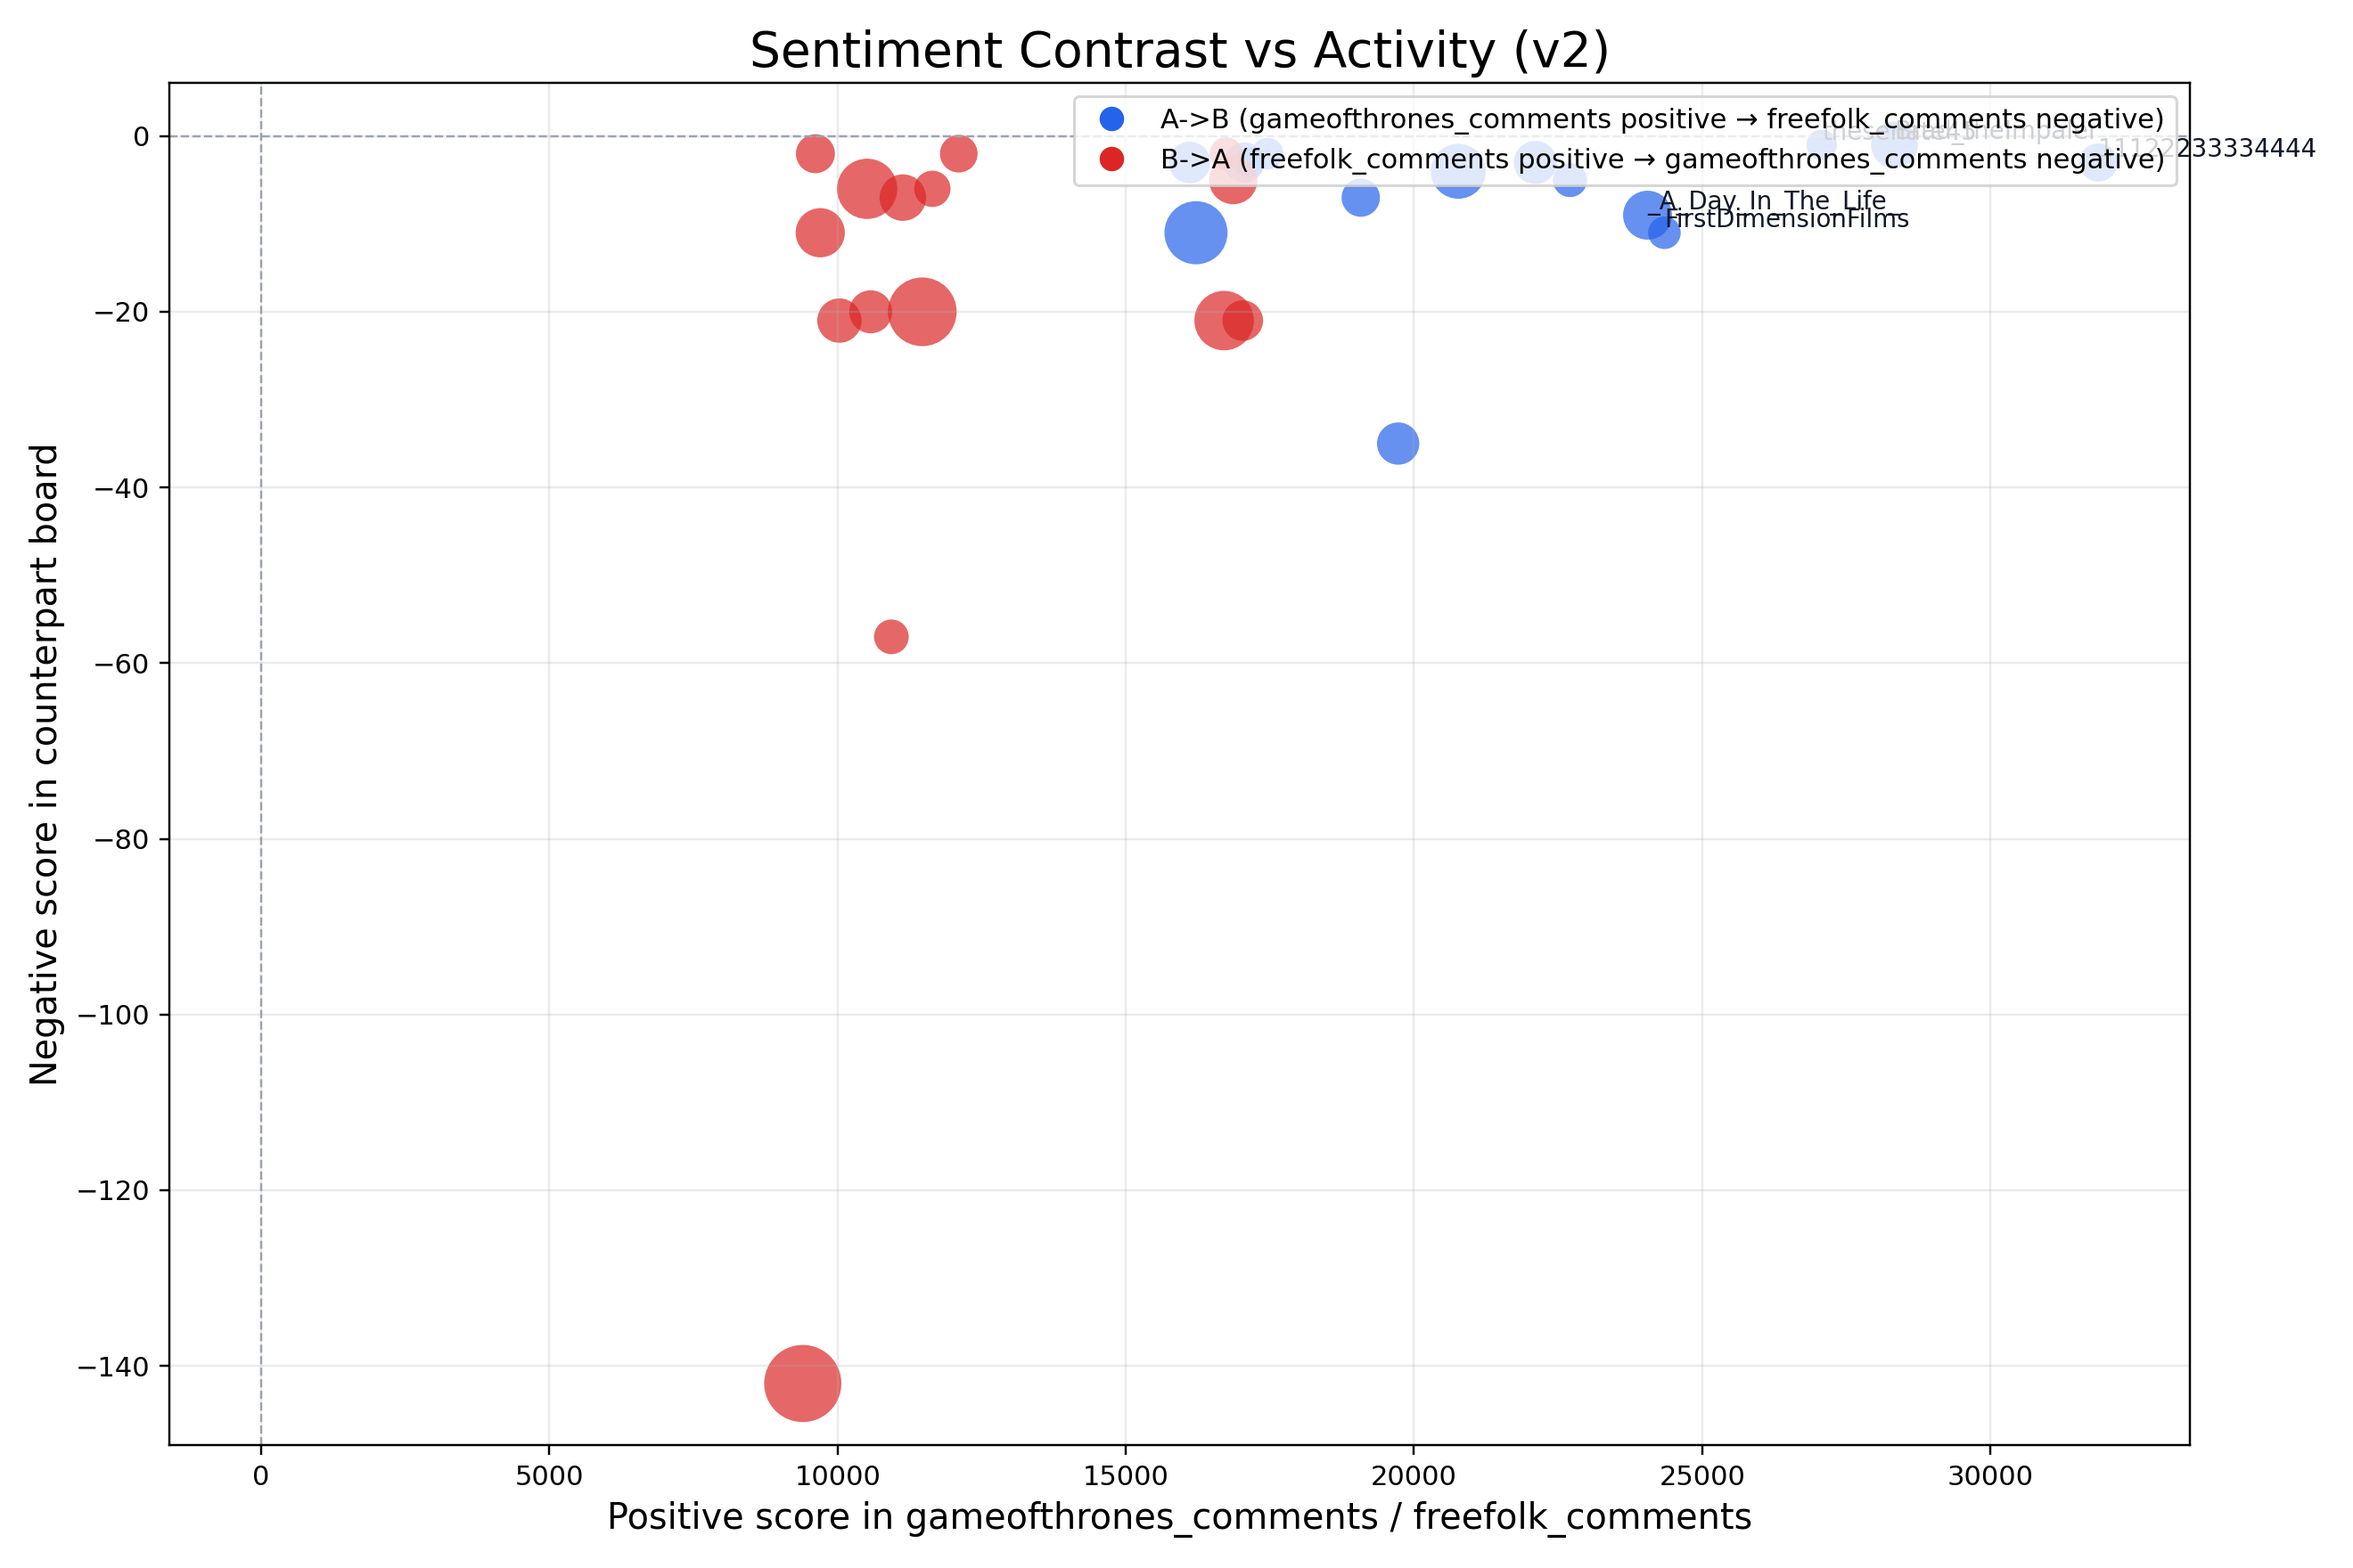
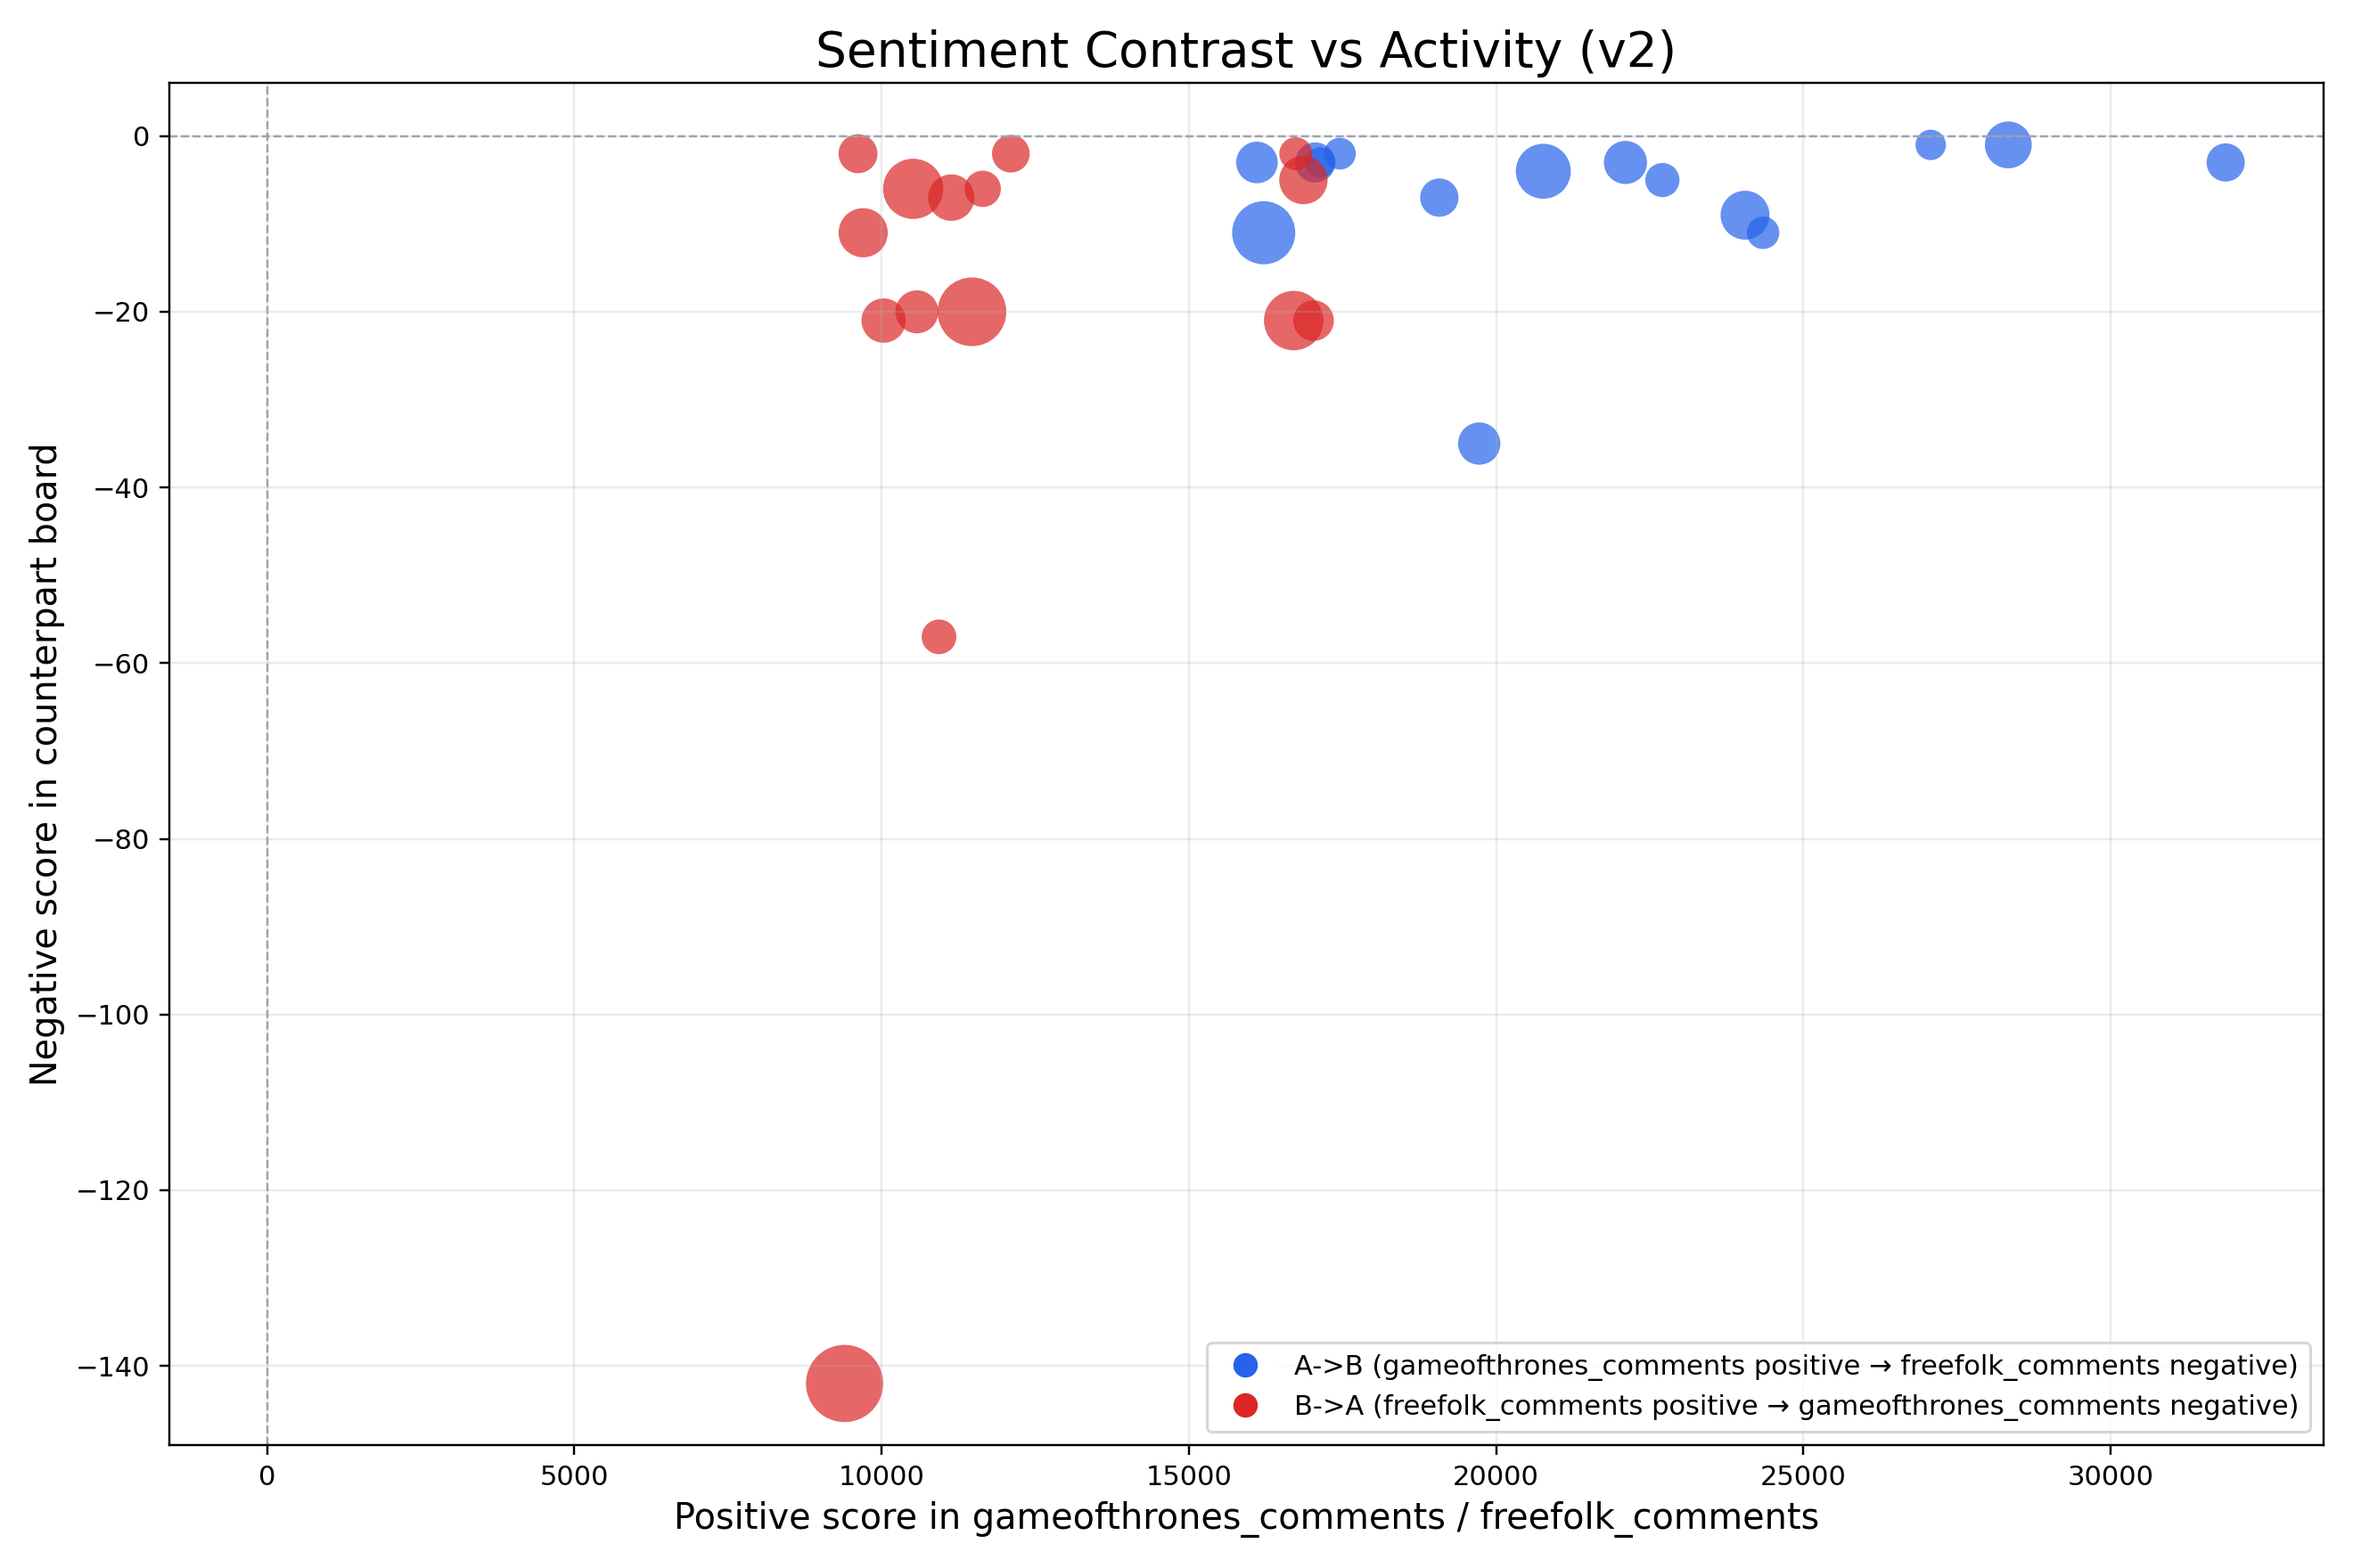
sentiment contrast legend move

diff --git a/plot_user_sentiment_contrast_v2.py b/plot_user_sentiment_contrast_v2.py
@@ -40,12 +40,6 @@ def parse_args() -> argparse.Namespace:
         default=None,
         help="Optional cap on number of rows to plot.",
     )
-    parser.add_argument(
-        "--annotate-top",
-        type=int,
-        default=5,
-        help="Number of most contrasting users to annotate (default: 5).",
-    )
     return parser.parse_args()
 
 
@@ -125,21 +119,7 @@ def main() -> None:
             ("B->A", DIRECTION_COLORS["B->A"], f"{board_b_label} positive → {board_a_label} negative"),
         ]
     ]
-    ax.legend(handles=legend_elements, loc="upper right", fontsize=10)
-
-    annotate_df = df.copy()
-    annotate_df["abs_contrast"] = annotate_df["contrast"].abs()
-    annotate_df.sort_values("abs_contrast", ascending=False, inplace=True)
-    for _, row in annotate_df.head(args.annotate_top).iterrows():
-        ax.text(
-            row["positive_score"],
-            row["negative_score"],
-            row["user"],
-            fontsize=9,
-            color="#111827",
-            ha="left",
-            va="bottom",
-        )
+    ax.legend(handles=legend_elements, loc="lower right", fontsize=10)
 
     plt.tight_layout()
     args.output.parent.mkdir(parents=True, exist_ok=True)
